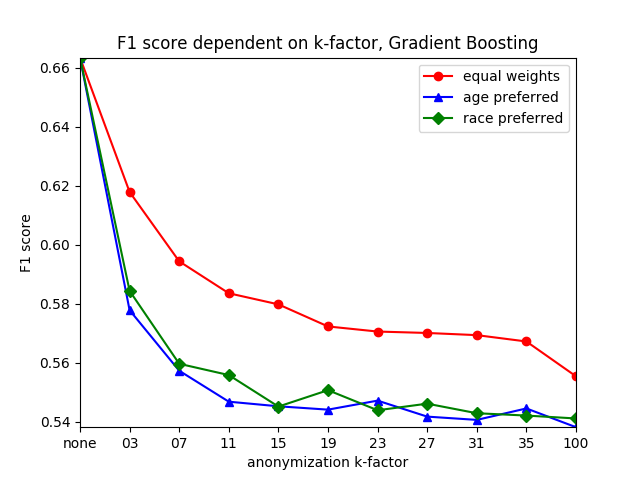
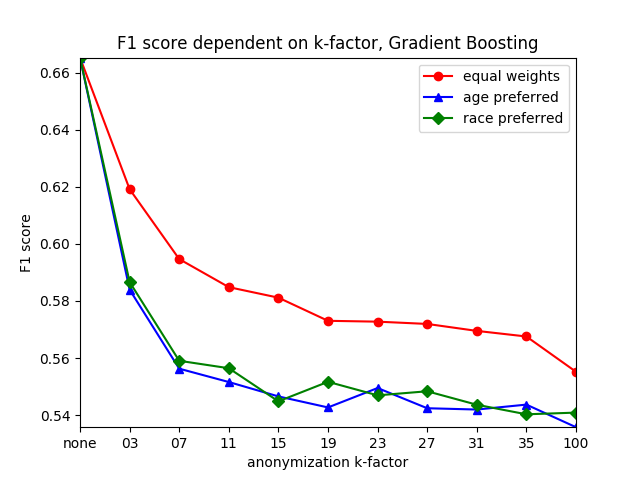
re-computed all algorithms for education-num with scaled attributes, logistic regression & linear SVC now producing expected results - gradient boost & random forest unchanged, whats going on with RF?

diff --git a/src/binary_class/plotting.py b/src/binary_class/plotting.py
@@ -13,19 +13,19 @@ from matplotlib.backends.backend_agg import FigureCanvasAgg as FigureCanvas
 
 
 # Adults education-num files
-# gradient_boost_file = '../../output/adults_target_education_num/results_gradient_boosting.csv'
-# logistic_regression_file = '../../output/adults_target_education_num/results_logistic_regression.csv'
-# onevsrest_bagging_file = '../../output/adults_target_education_num/results_onevsrest_bagging.csv'
-# random_forest_file = '../../output/adults_target_education_num/results_random_forest.csv'
-# linear_svc_file = '../../output/adults_target_education_num/results_linear_svc.csv'
+gradient_boost_file = '../../output/adults_target_education_num/results_gradient_boosting.csv'
+logistic_regression_file = '../../output/adults_target_education_num/results_logistic_regression.csv'
+onevsrest_bagging_file = '../../output/adults_target_education_num/results_onevsrest_bagging.csv'
+random_forest_file = '../../output/adults_target_education_num/results_random_forest.csv'
+linear_svc_file = '../../output/adults_target_education_num/results_linear_svc.csv'
 
 
 # Adults marital-status files
-gradient_boost_file = '../../output/adults_target_marital_status/results_gradient_boosting.csv'
-logistic_regression_file = '../../output/adults_target_marital_status/results_logistic_regression.csv'
-onevsrest_bagging_file = '../../output/adults_target_marital_status/results_onevsrest_bagging.csv'
-random_forest_file = '../../output/adults_target_marital_status/results_random_forest.csv'
-linear_svc_file = '../../output/adults_target_marital_status/results_linear_svc.csv'
+# gradient_boost_file = '../../output/adults_target_marital_status/results_gradient_boosting.csv'
+# logistic_regression_file = '../../output/adults_target_marital_status/results_logistic_regression.csv'
+# onevsrest_bagging_file = '../../output/adults_target_marital_status/results_onevsrest_bagging.csv'
+# random_forest_file = '../../output/adults_target_marital_status/results_random_forest.csv'
+# linear_svc_file = '../../output/adults_target_marital_status/results_linear_svc.csv'
 
 
 
@@ -78,7 +78,7 @@ def plotAnonymizationResults(results):
   rect = fig.patch
   rect.set_facecolor('white')
 
-  title_algo = "Random Forest"
+  title_algo = "Gradient Boosting"
   plt.title("F1 score dependent on k-factor, %s" % (title_algo) )
 
   equal_line, = plt.plot(equal_line_f1, marker='o', linestyle='-', color='r', label="equal weights")
@@ -199,7 +199,7 @@ if __name__ == "__main__":
   algorithm = "random_forest"
   target = "education_num"
 
-  results = readResultsIntoHash(random_forest_file)
+  results = readResultsIntoHash(gradient_boost_file)
   plotAnonymizationResults(results)
   # plotPerturbationResultsTop3(results)
   # plotPerturbationResultsBottom3(results)

diff --git a/src/multi_class/logistic_regression.py b/src/multi_class/logistic_regression.py
@@ -9,7 +9,7 @@ def runClassifier(X_train, X_test, y_train, y_test):
   cls = linear_model.LogisticRegression(
     class_weight="balanced", # default = None
     max_iter=1000, # default = 100
-    solver="liblinear", # default = liblinear (can only handle on-vs-rest)
+    solver="lbfgs", # default = liblinear (can only handle on-vs-rest)
     multi_class="ovr",
     n_jobs=-1
   )

diff --git a/src/multi_class/main_workflow.py b/src/multi_class/main_workflow.py
@@ -96,7 +96,7 @@ ALGORITHMS = [
     # 'bagging_svc' ## WAY TOO SLOW...
 ]
 
-config = CONFIG_MARITAL
+config = CONFIG_EDUCATION
 
 
 def main_workflow():
@@ -161,3 +161,4 @@ def main_workflow():
 
 if __name__ == "__main__":
   main_workflow()
+
